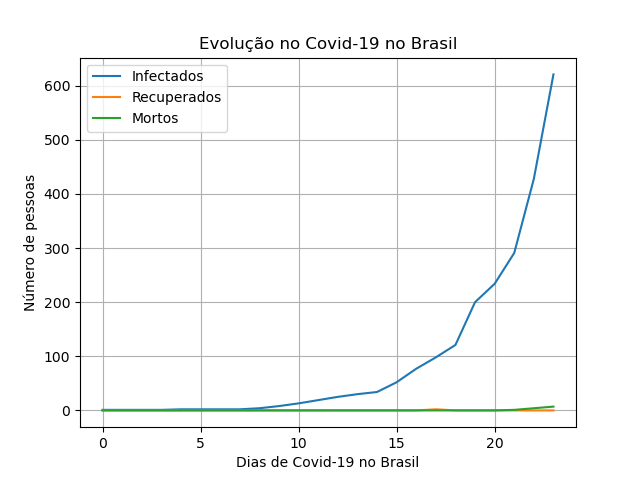
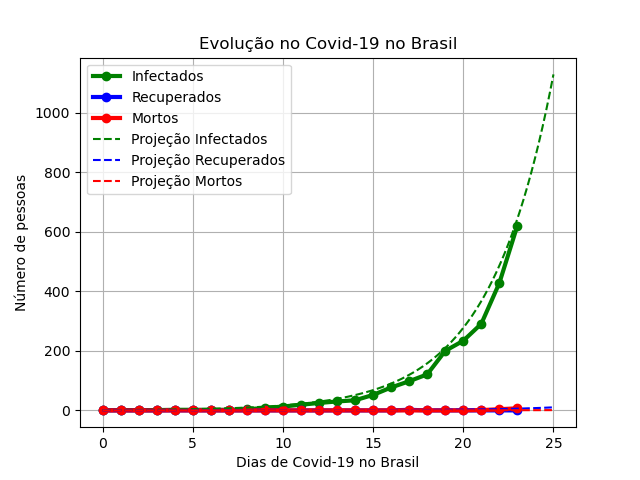
Added projection

diff --git a/covid-19.html b/covid-19.html
@@ -107,7 +107,7 @@
         
         <a class="aulaImg"><img class="aula" src="images/covid19.png"></a>
 
-        <p> Se você quer entender como uma epidemia evolui e a entender como os cientistas projetam possíveis cenários da evolução de uma pandemia, veja o vídeo que preparei abaixo.</p>
+        <p> A projeção é feita através do modelo SIR. Se você quer entender como uma epidemia evolui e a entender como os cientistas projetam possíveis cenários da evolução de uma pandemia, veja o vídeo que preparei abaixo.</p>
 
         <a class="aulaImg" href="https://youtu.be/XaNvUEX9Kbc"><img class="aula" src="images/CoronavirusSIR.png"></a>
         <b> Clique na imagem para abrir o vídeo.</b>
